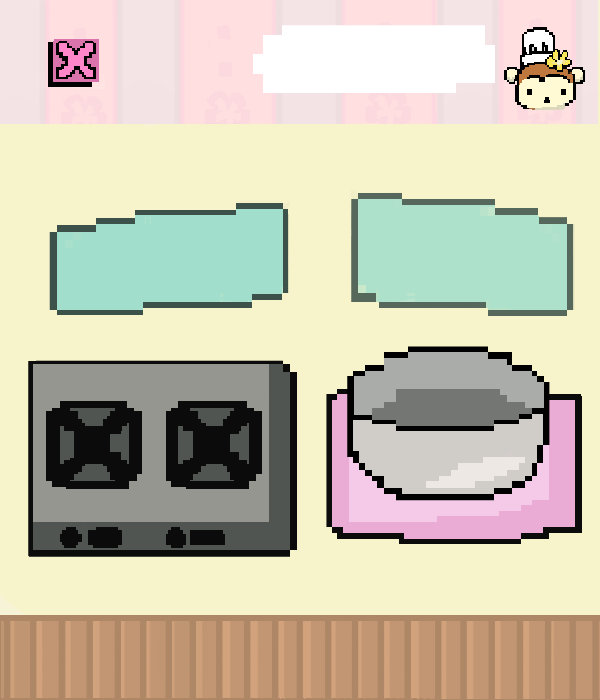
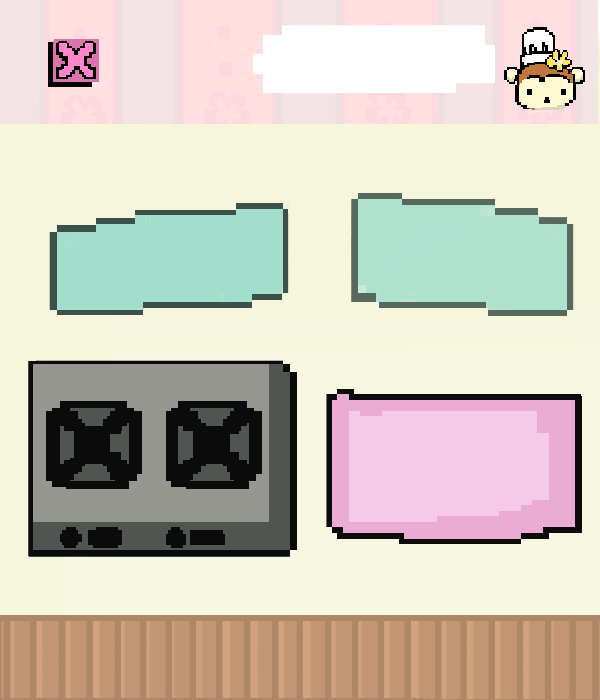
changed so that the methods for pancake and bingsoo are under the same superclass, cook

Changed region(s): [[0.57, 0.48, 0.93, 0.72], [0.99, 0.0, 1.0, 0.06]]

diff --git a/main.py b/main.py
@@ -3,7 +3,8 @@ from PIL import Image, ImageDraw
 from customer import *
 from recipes import *
 from profits import *
-from pancakes import *
+from cook import *
+
 
 def onAppStart(app):
     app.counter = 0
@@ -57,26 +58,34 @@ def onMousePress(app,mouseX,mouseY):
             app.screen = 'kitchen'
         # ready button
         if app.currRecipe.isOnReady(mouseX, mouseY):
+            
+            chosenRecipe = app.currRecipe.getChosenRecipe(mouseX, mouseY)
+
             app.gameImg = (CMUImage(Image.open(
-                            app.currRecipe.getGameScreen(mouseX, mouseY))
+                            app.currRecipe.getGameImg())
                             ))
+            
+            if (app.currRecipe.orderName == 'Ube Pancake' or 
+                app.currRecipe.orderName == 'Pandan Egg Waffle'):
+                app.currCook = Pancakes(chosenRecipe)
+            elif (app.currRecipe.orderName == 'Mango Bingsoo' or 
+                app.currRecipe.orderName == 'Melon Bingsoo'):
+                app.currCook = Bingsoo(chosenRecipe)
+            elif (app.currRecipe.orderName == 'Iced Americano' or 
+                app.currRecipe.orderName == 'Coconut Latte'):
+                app.currCook = Coffee(chosenRecipe)
+            elif (app.currRecipe.orderName == 'Hot Matcha Latte' or 
+                app.currRecipe.orderName == 'Iced Matcha Latte'):
+                app.currCook = Matcha(chosenRecipe)
+            
             app.screen = 'cookGame'
 
     elif app.screen =='cookGame':
         # exit button
         if (mouseX <= 0) and (mouseY <= 0):
             app.screen = 'kitchen'
-
-        chosenRecipe = app.currRecipe.getChosenRecipe(mouseX, mouseY)
-        if (app.currRecipe.orderName == 'Ube Pancake' or 
-            app.currRecipe.orderName == 'Pandan Egg Waffle'):
-            app.currCook = Pancakes(chosenRecipe)
-        elif (app.currRecipe.orderName == 'Mango Bingsoo' or 
-             app.currRecipe.orderName == 'Melon Bingsoo'):
-             app.currCook = Bingsoo(chosenRecipe)
-
-            
-            
+        
+        
 def onMouseDrag(app, mouseX, mouseY):
     if app.screen == 'cookGame':
         pass
@@ -90,7 +99,7 @@ def redrawAll(app):
 
     # start screen
     if app.screen == 'start':
-        drawImage(CMUImage(Image.open('recipes/food/pandan.png')), 0, 0, width = app.width, height = app.height)
+        drawLabel('start', 50, 50)
         
 
     #kitchen screen
@@ -114,8 +123,10 @@ def redrawAll(app):
     
     elif app.screen == 'cookGame':
         drawImage(app.gameImg, 0, 0, width = app.width, height = app.height)
-        for key in app.currCook.getAllIngredients():
-            drawImage(?)
+        starterItems = app.currCook.getAllStarterIngredients()
+        for name, (url, x, y, width, height) in starterItems.items():
+            img = CMUImage(Image.open(url))
+            drawImage(img, x, y, width = width, height = height)
         
         
 

diff --git a/bingsoo.py b/bingsoo.py
@@ -18,16 +18,43 @@ melonSteps: [
     'All done!'
 ] # type: ignore
 
-class Bingsoo():
-    def __init__(self, chosenRecipe):
-        if chosenRecipe == 'Mango Bingsoo':
-            self.order = 'mango'
-        elif chosenRecipe == 'Melon Bingsoo':
-            self.order = 'melon'
-        self.step = 0
+# IngredientName = (imageURL, left, top, width, height)
+bingsooPath = 'recipes/ingredients/bingsoo/'
+bingsooIngredients = {
+    'starter' : {
+                'blender'       : (f'{bingsooPath}blender.png',
+                                    65, 140, 122, 147),
+                'condensedMilk' : (f'{bingsooPath}condensedMilk.png', 
+                                    360, 220, 121, 80),
+                'emptyBowl'     : (f'{bingsooPath}emptyBowl.png', 
+                                    490, 235, 69, 71),
+                'mangoFruit'    : (f'{bingsooPath}mangoFruit.png', 
+                                    490, 235, 69, 71),
+                'melonFruit'    : (f'{bingsooPath}melonFruit.png', 
+                                    490, 235, 69, 71),
+                'iceCreamTub'   : (f'{bingsooPath}iceCreamTub.png', 
+                                    490, 235, 69, 71),
+                'jam'           : (f'{bingsooPath}jam.png', 
+                                    490, 235, 69, 71),
+    },
+                
+    'mangoBlender'  : (f'{bingsooPath}mangoBlender.png', 
+                        190, 145, 85, 141),
+    'melonBlender'  : (f'{bingsooPath}melonBlender.png', 
+                        190, 145, 85, 141),
+    'choppedMango'  : (f'{bingsooPath}choppedMango.png', 
+                        190, 145, 85, 141),
+    'choppedMelon'  : (f'{bingsooPath}choppedMelon.png', 
+                        440, 160, 57, 66),
     
-    def chefSpeak(self):
-        if self.order == 'mango':
-            return mangoSteps[self.step]
-        elif self.order == 'melon':
-            return melonSteps[self.step]
+    'mangoBowl'     : (f'{bingsooPath}mangoBowl.png', 
+                        490, 235, 69, 71),
+    'melonBowl'     : (f'{bingsooPath}melonBowl.png', 
+                        490, 235, 69, 71),
+    'mangoWithJam'  : (f'{bingsooPath}mangoWithJam.png', 
+                        490, 235, 69, 71),
+    'melonWithMilk' : (f'{bingsooPath}melonWithMilk.png', 
+                        490, 235, 69, 71),
+    'iceCreamScoop' : (f'{bingsooPath}iceCreamScoop.png', 
+                        490, 235, 69, 71),
+}

diff --git a/pancakes.py b/pancakes.py
@@ -23,36 +23,21 @@ pandanSteps = [
 ]
 
 # IngredientName = (imageURL, left, top, width, height)
-ingredients = {
-    'flour' : ('recipes/ingredients/pancakes/flour.png', 65, 140, 122, 147),
-    'milk' : ('recipes/ingredients/pancakes/milk.png', 190, 145, 85, 141),
-    'egg' : ('recipes/ingredients/pancakes/egg.png', 440, 160, 57, 66),
-    'ubeYam' : ('recipes/ingredients/pancakes/egg.png', 360, 220, 121, 80),
-    'pandanExtract' : ('recipes/ingredients/pancakes/pandanExtract.png', 
-                       490, 235, 69, 71)
+pancakePath = 'recipes/ingredients/pancakes/'
+pancakeIngredients = {
+    'starter'   : {
+                    'flour'         : (f'{pancakePath}flour.png', 
+                                    65, 140, 122, 147),
+                    'milk'          : (f'{pancakePath}milk.png', 
+                                    190, 145, 85, 141),
+                    'egg'           : (f'{pancakePath}egg.png', 
+                                    440, 160, 57, 66),
+                    'ubeYam'        : (f'{pancakePath}ubeYam.png', 
+                                    360, 220, 121, 80),
+                    'pandanExtract' : (f'{pancakePath}pandanExtract.png', 
+                                    490, 235, 69, 71),
+                    'bowl'          : (f'{pancakePath}bowl.png',
+                                    350, 350, 205, 157)
+                },
+    'bowl1'     : (f'{pancakePath}bowl1.png', 350, 350, 205, 157)
 }
-
-class Pancakes():
-
-    def __init__(self, chosenRecipe):
-        if chosenRecipe == 'Ube Pancake':
-            self.order = 'ube'
-        elif chosenRecipe == 'Pandan Egg Waffle':
-            self.order = 'pandan'
-        self.step = 0
-    
-    def getAllIngredients(self):
-        return ingredients
-    
-    def mouseOnIngredient(self, ingredient, x, y):
-        url, left, top, width, height = ingredients[ingredient] 
-        right = left + width
-        bottom = top + height
-        return (left <= x <= right) and (left <= y <= right)
-        
-    def chefSpeak(self):
-        if self.order == 'ube':
-            return ubeSteps[self.step]
-        elif self.order == 'pandan':
-            return pandanSteps[self.step]
-

diff --git a/recipes.py b/recipes.py
@@ -40,36 +40,36 @@ class Recipe():
         elif (380 <= x <= 530) and (410 <= y <= 490):
             return 'rightPage'
     
-    def getGameScreen(self):
+    def getGameImg(self):
         if self.getRecipePage() == 'pancakePage':
-            return 'pancakeKitchen.png'
-        elif self.getRecipePage() == 'coffeePage':
-            return 'coffeeKitchen.png'
-        elif self.getRecipePage() == 'matchaPage':
-            return 'matchaKitchen.png'
+            return 'recipes/food/pancakeKitchen.png'
         elif self.getRecipePage() == 'bingsooPage':
-            return 'bingsooKitchen.png'
-
+            return 'recipes/food/bingsooKitchen.png'
+        elif self.getRecipePage() == 'coffeePage':
+            return 'recipes/food/coffeeKitchen.png'
+        elif self.getRecipePage() == 'matchaPage':
+            return 'recipes/food/matchaKitchen.png'
+    
     def getChosenRecipe(self, x, y):
         sideOfPage = self.getSideOfPage(x, y)
         recipeBook = self.getRecipePage()
-        print(sideOfPage, recipeBook)
+
         if sideOfPage == 'leftPage':
             if recipeBook == 'pancakePage':
-                return 'recipes/food/ube.png'
+                return 'ube'
             elif recipeBook == 'coffeePage':
-                return 'recipes/food/coconut.png'
+                return 'coconut'
             elif recipeBook == 'matchaPage':
-                return 'recipes/food/icedMatcha.png'
+                return 'icedMatcha'
             elif recipeBook == 'bingsooPage':
-                return 'recipes/food/melon.png'
+                return 'melon'
             
         elif sideOfPage == 'rightPage':
             if recipeBook == 'pancakePage':
-                return 'recipes/food/pandan.png'
+                return 'pandan'
             elif recipeBook == 'coffeePage':
-                return 'recipes/food/americano.png'
+                return 'americano'
             elif recipeBook == 'matchaPage':
-                return 'recipes/food/hotMatcha.png'
+                return 'hotMatcha'
             elif recipeBook == 'bingsooPage':
-                return 'recipes/food/mango.png'
+                return 'mango'

diff --git a/cook.py b/cook.py
@@ -1,0 +1,55 @@
+from bingsoo import *
+from pancakes import *
+
+class Cook:
+
+    def __init__(self, chosenRecipe):
+        self.chosen = chosenRecipe
+        self.step   = 0
+
+    def getAllStarterIngredients(self):
+        starterIngredients = dict()
+        for key, value in self.ingredients['starter'].items():
+            starterIngredients[key] = value
+
+        return starterIngredients
+
+    def chefSpeak(self):
+        return self.steps[self.step]
+
+    def nextStep(self):
+        if self.step < len(self.steps) - 1:
+            self.step += 1
+
+    def getIngredientUnder(self, mx, my):
+        for name, (url, x, y, w, h) in self.getAllStarterIngredients().items():
+            if x <= mx <= x + w and y <= my <= y + h:
+                return name
+        return None
+    
+    def isOnStarterIngredient(self, mx, my):
+        return (self.getIngredientUnder(mx, my) is not None)
+
+# Subclasses 
+
+class Pancakes(Cook):
+    def __init__(self, chosenRecipe):
+        # pick the right step‑list and ingredient map
+        if chosenRecipe == 'ube':
+            self.steps       = ubeSteps
+            self.ingredients = pancakeIngredients
+        elif chosenRecipe == 'pandan':
+            self.steps       = pandanSteps
+            self.ingredients = pancakeIngredients
+
+class Bingsoo(Cook):
+    def __init__(self, chosenRecipe):
+        super().__init__(chosenRecipe)
+        if chosenRecipe == 'mango':
+            self.steps       = mangoSteps
+            self.ingredients = bingsooIngredients
+        elif chosenRecipe == 'melon':
+            self.steps       = melonSteps
+            self.ingredients = bingsooIngredients
+        else:
+            raise ValueError(f"Unknown bingsoo type: {chosenRecipe}")

diff --git a/customer.py b/customer.py
@@ -12,7 +12,7 @@ class Customer:
 
         names = [name for name in ordersDict]
         index = random.randrange(len(names))
-        self.orderName  = names[index]
+        self.orderName  = 'Ube Pancake' #should be names[index]
         
         self.price, self.cost = ordersDict[self.orderName]
     
